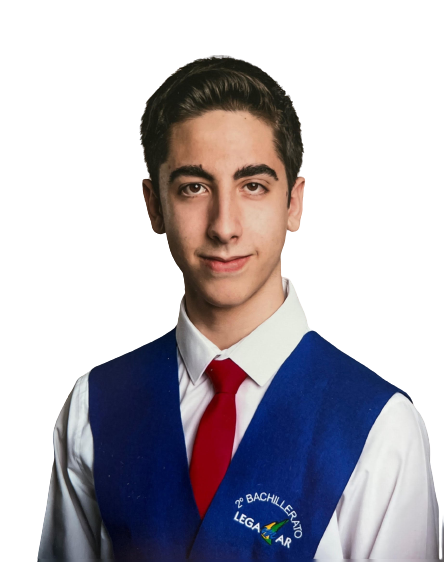
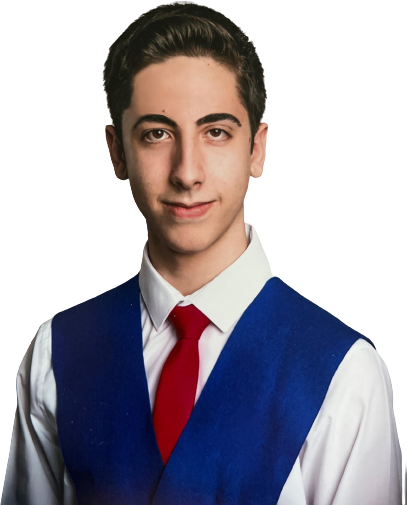
Update portfolio

diff --git a/index.html b/index.html
@@ -253,51 +253,51 @@
             <div class="divlenguajes">
                 <h4 class="h4 timeline-item-title">Languages:</h4>
                   <div class="lenguajes">
-                    <img src="assets/images/iconos/java.jpeg" alt="" class="lenguaje">
-                    <img src="assets/images/iconos/c.jpeg" alt="" class="lenguaje">
-                    <img src="assets/images/iconos/python.jpg" alt="" class="lenguaje">
-                    <img src="assets/images/iconos/html.jpg" alt="" class="lenguaje">
-                    <img src="assets/images/iconos/css.jpg" alt="" class="lenguaje">
-                    <img src="assets/images/iconos/js.jpg" alt="" class="lenguaje">
-                    <img src="assets/images/iconos/php.jpg" alt="" class="lenguaje">
-                    
+                    <img src="assets/images/iconos/python.jpg" alt="Python" class="lenguaje">
+                    <img src="assets/images/iconos/c.jpeg" alt="c++" class="lenguaje">
+                    <img src="assets/images/iconos/java.jpeg" alt="Java" class="lenguaje">
+                    <img src="assets/images/iconos/html.jpg" alt="HTML" class="lenguaje">
+                    <img src="assets/images/iconos/css.jpg" alt="CSS" class="lenguaje">
+                    <img src="assets/images/iconos/js.jpg" alt="Java Script" class="lenguaje">
+                    <img src="assets/images/iconos/php.jpg" alt="PHP" class="lenguaje">
+                    <img src="assets/images/iconos/R.png" alt="r" class="lenguaje">
                   </div>   
                 <h4 class="h4 timeline-item-title">Other lenguages:</h4>
                   <div class="lenguajes">
-                    <img src="assets/images/iconos/ros.jpg" alt="" class="lenguaje">
-                    <img src="assets/images/iconos/arduino.jpg" alt="" class="lenguaje">
-                    <img src="assets/images/iconos/dart.jpg" alt="" class="lenguaje">
+                    <img src="assets/images/iconos/ros.jpg" alt="ROS" class="lenguaje">
+                    <img src="assets/images/iconos/arduino.jpg" alt="Arduino" class="lenguaje">
+                    <img src="assets/images/iconos/dart.jpg" alt="Dart" class="lenguaje">
                   </div>
                 <h4 class="h4 timeline-item-title">Editors:</h4>
                   <div class="lenguajes">
-                    <img src="assets/images/iconos/vs.jpg" alt="" class="lenguaje">
-                    <img src="assets/images/iconos/ecl.jpg" alt="" class="lenguaje">
-                    <img src="assets/images/iconos/clion.jpg" alt="" class="lenguaje">
-                    <img src="assets/images/iconos/jupiter.jpg" alt="" class="lenguaje">
-                    <img src="assets/images/iconos/android.jpg" alt="" class="lenguaje">
+                    <img src="assets/images/iconos/vs.jpg" alt="Visual Studio" class="lenguaje">
+                    <img src="assets/images/iconos/ecl.jpg" alt="Eclipse" class="lenguaje">
+                    <img src="assets/images/iconos/clion.jpg" alt="Clion" class="lenguaje">
+                    <img src="assets/images/iconos/jupiter.jpg" alt="Jupyter lab" class="lenguaje">
+                    <img src="assets/images/iconos/android.jpg" alt="Android Studio" class="lenguaje">
                   </div>
     
                 <h4 class="h4 timeline-item-title">Database:</h4>
                   <div class="lenguajes">
-                    <img src="assets/images/iconos/mdb.jpg" alt="" class="lenguaje">
-                    <img src="assets/images/iconos/mysql.jpg" alt="" class="lenguaje">
-                    <img src="assets/images/iconos/sqlite.jpg" alt="" class="lenguaje">
+                    <img src="assets/images/iconos/mdb.jpg" alt="mariadb" class="lenguaje">
+                    <img src="assets/images/iconos/mysql.jpg" alt="mysql" class="lenguaje">
+                    <img src="assets/images/iconos/sqlite.jpg" alt="sqlite" class="lenguaje">
                   </div>
 
                 <h4 class="h4 timeline-item-title">Hosting:</h4>
                   <div class="lenguajes">
-                    <img src="assets/images/iconos/aws.jpg" alt="" class="lenguaje">
-                    <img src="assets/images/iconos/fb.jpg" alt="" class="lenguaje">
-                    <img src="assets/images/iconos/sqlite.jpg" alt="" class="lenguaje">
+                    <img src="assets/images/iconos/aws.jpg" alt="aws" class="lenguaje">
+                    <img src="assets/images/iconos/fb.jpg" alt="firebase" class="lenguaje">
                   </div>
 
                 <h4 class="h4 timeline-item-title">Other Tools:</h4>
                   <div class="lenguajes">
-                    <img src="assets/images/iconos/ph.jpg" alt="" class="lenguaje">
-                    <img src="assets/images/iconos/solid.jpg" alt="" class="lenguaje">
-                    <img src="assets/images/iconos/sv.jpg" alt="" class="lenguaje">
-                    <img src="assets/images/iconos/ae.jpg" alt="" class="lenguaje">
-                    <img src="assets/images/iconos/cura.jpg" alt="" class="lenguaje">
+                    <img src="assets/images/iconos/rapidminer.png" alt="PHP" class="lenguaje">
+                    <img src="assets/images/iconos/ph.jpg" alt="Photoshop" class="lenguaje">
+                    <img src="assets/images/iconos/solid.jpg" alt="Solidworks" class="lenguaje">
+                    <img src="assets/images/iconos/sv.jpg" alt="Sony Vegas" class="lenguaje">
+                    <img src="assets/images/iconos/ae.jpg" alt="After Effects" class="lenguaje">
+                    <img src="assets/images/iconos/cura.jpg" alt="Cura" class="lenguaje">
                   </div>
             </div> 
         </section>
@@ -472,7 +472,7 @@
 
             <h4 class="h4 timeline-item-title">Computer science engineering degree.</h4>
 
-            <span>2020 — now</span>
+            <span>2021 — 2025</span>
 
             <p class="timeline-text">Universidad Europea de Madrid.</p>
 
@@ -646,6 +646,7 @@
               <button class="active" data-filter-btn>All</button>
             </li>
 
+            <!--
             <li class="filter-item">
               <button data-filter-btn>Applications</button>
             </li>
@@ -653,7 +654,7 @@
             <li class="filter-item">
               <button data-filter-btn>Web development</button>
             </li>
-
+            -->
           </ul>
 
           <div class="filter-select-box">
@@ -758,6 +759,24 @@
                 <h3 class="project-title">Mobile platform</h3>
 
                 <p class="project-category">Remote mobile platform  control.</p>
+
+              </a>
+            </li>
+
+            <li class="project-item  active" data-filter-item data-category="applications">
+              <a href="https://github.com/guti10x/DraftGeniusIQ.git">
+
+                <figure class="project-img">
+                  <div class="project-item-icon-box">
+                    <ion-icon name="eye-outline"></ion-icon>
+                  </div>
+
+                  <img src="./assets/images/portfolio/DraftGeniousIQ.png" alt="DraftGeniousIQ" loading="lazy">
+                </figure>
+
+                <h3 class="project-title">DraftGeniousIQ</h3>
+
+                <p class="project-category">Personal assistant for generating strategies and recommendations on transfers and player line-ups.</p>
 
               </a>
             </li>

diff --git a/assets/css/style.css b/assets/css/style.css
@@ -964,7 +964,7 @@ h4{
     align-items: center; 
   }
 
-  .avatar-box img { width: 120px; }
+  .avatar-box img { width: 130px; }
 
   .info-content .name { margin-bottom: 5px; }
 
@@ -1464,7 +1464,7 @@ h4{
 
   .sidebar-info { flex-direction: column; }
 
-  .avatar-box img { width: 120px; }
+  .avatar-box img { width: 280px; }
 
   .info-content .name {
     white-space: nowrap;
